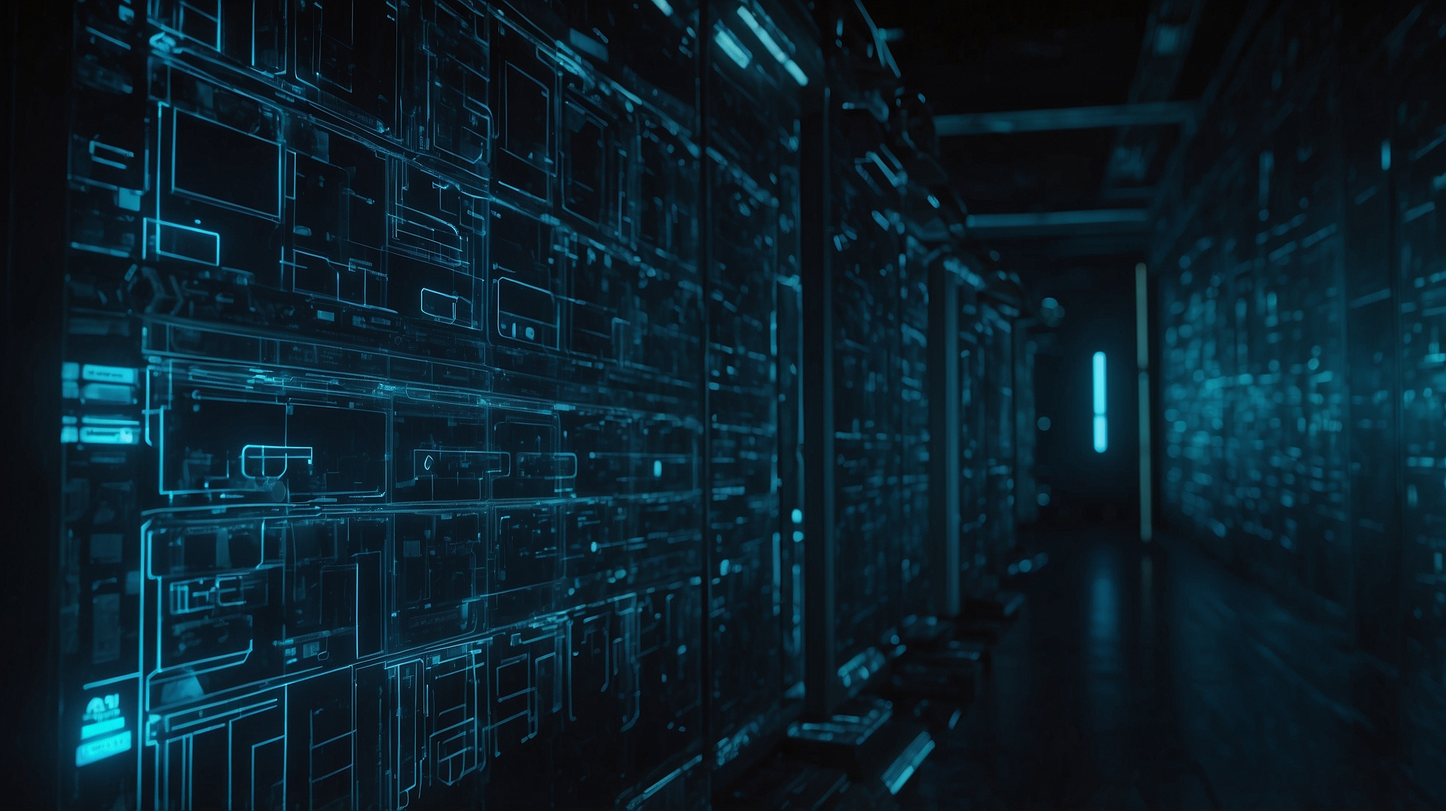
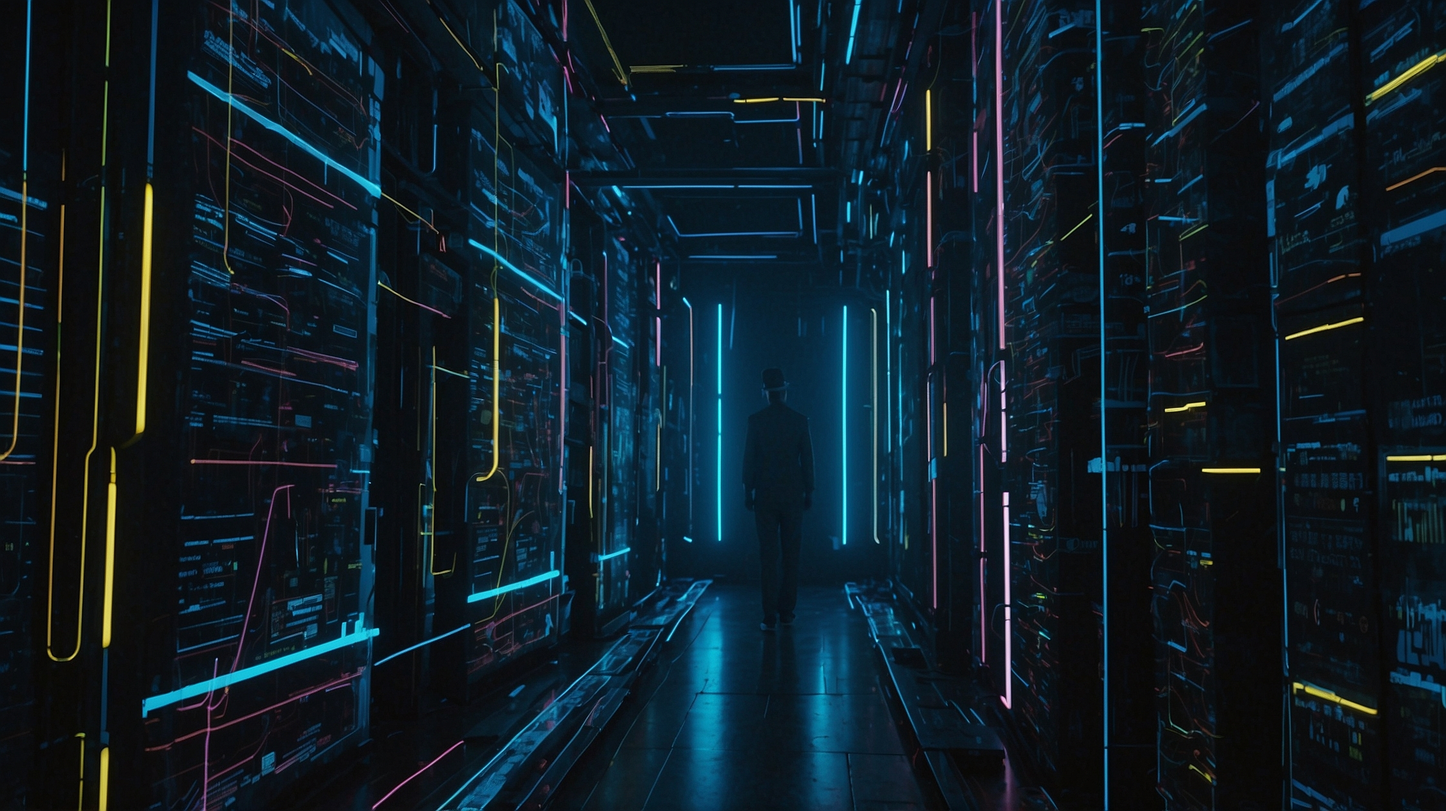
blog: deep cuts - profiles

diff --git a/src/content/blog/hermes-agent-deep-cuts-profiles.md b/src/content/blog/hermes-agent-deep-cuts-profiles.md
@@ -1,129 +1,133 @@
 ---
 title: "Hermes Agent Deep Cuts: Profiles"
-description: "Most users run one Hermes instance and never realize they can have independent work, security research, and personal profiles — each with its own config, skills, cron jobs, and memory. Here is how profiles work and why they change everything."
-pubDate: "Jul 09 2026"
+description: "Most users run one Hermes instance and call it done. But a single command gives you completely independent agents — separate configs, API keys, skills, memory, even gateway setups — all on the same machine. Here is how profiles work and why you probably need more than one."
+pubDate: "Jul 18 2026"
 heroImage: "/hermes-agent-deep-cuts-profiles.jpg"
 ---
 
-I am running Hermes Agent v0.18.0 (2026.7.1), and this post is the first in an ongoing **Deep Cuts** series — spotlighting one specific feature that most users walk past.
+I am running Hermes Agent v0.18.2, and this post is part of the ongoing **Deep Cuts** series — spotlighting one specific feature that most users walk past.
 
-Today's feature: **Profiles**.
+Today's topic is **profiles**: the ability to run multiple independent Hermes agents on the same machine, each with its own config, API keys, memory, sessions, skills, cron jobs, and gateway state.
 
 ## What Are Profiles?
 
-Hermes profiles are fully independent agent instances sharing the same binary. Each profile gets its own:
+A profile is a separate Hermes home directory. Where your default profile lives under `~/.hermes/`, a new profile called `work` lives under `~/.hermes/profiles/work/` and has its own:
 
-- **Config** — model provider, toolsets, terminal backend, compression settings
-- **Skills** — an isolated skill directory loaded only in that profile
-- **Sessions** — separate conversation history, never cross-contaminated
-- **Cron jobs** — scheduled tasks belong to the profile that created them
-- **Memory** — durable facts stay in their profile's namespace
-- **Plugins** — enabled per-profile, not globally
+- `config.yaml` — model, provider, terminal backend, security settings
+- `.env` — API keys and secrets
+- `SOUL.md` — personality/system prompt overrides
+- `skills/` — completely independent skill library
+- `sessions/` — conversation history (no cross-contamination)
+- `memories/` — durable cross-session facts
+- `cron/` — scheduled jobs
+- State database — isolated SQLite store
 
-You create a profile, switch to it with `--profile`, and Hermes treats it like a different installation. The config files live under `~/.hermes/profiles/<name>/` with the same layout as the default profile.
+When you create a profile, Hermes **automatically generates a wrapper command** for it. Create a profile called `coder` and you immediately have `coder chat`, `coder setup`, `coder gateway start` — as if you installed a separate Hermes binary. No aliases, no PATH hacking, no remembering `hermes --profile coder`.
 
 ```bash
-hermes profile create security-lab
-hermes --profile security-lab
+hermes profile create coder          # Creates profile + "coder" CLI alias
+coder setup                          # Configure API keys and model
+coder chat                           # Start chatting in the coder profile
 ```
-
-That is it. You now have a second Hermes that cannot see your work profile's sessions, does not have access to the same skills, and talks to a different model if you configure it that way.
 
 ## Why It Is Obscure
 
-Profiles are not hidden, but they are easy to miss. The default `hermes` command runs the "default" profile with zero indication that more exist. The `hermes profile list` subcommand is buried in a long CLI reference, and the profile system really shines when you combine it with other features — worktree mode (`-w`), per-profile cron jobs, and isolated skill directories — that most users discover one at a time.
+Profiles are not hidden — they have their own section in the docs — but three things conspire to keep them underused:
 
-The documentation covers profiles, but there is no runtime hint that shouts "you could be running three of these." Most people use one profile indefinitely, treating Hermes as a single agent rather than a multi-instance framework.
+1. **The one-and-done startup path.** Most users install Hermes, run through `hermes setup` once, configure a model, and start chatting. Nothing in the setup wizard asks "how many profiles do you want?" It assumes one.
+
+2. **The CLI auto-command is invisible until you create a profile.** You cannot discover `coder chat` exists without first running `hermes profile create coder`. The generated command appears with no announcement — it just works, silently, the next time you tab-complete.
+
+3. **No obvious use case on day one.** When you are evaluating an agent, you run it, test it, and decide whether to keep it. The need for multiple profiles emerges in week two or three, when your chat history is full of everything — personal queries, work repos, security research, random experiments — and you wish they were separate.
 
 ## How to Use Profiles
 
-### Create and Switch
+### Creating Profiles
 
 ```bash
-# List existing profiles
-hermes profile list
+# Blank profile — needs full setup
+hermes profile create mybot
 
-# Create from scratch
-hermes profile create redteam
+# Clone config from current profile (shared model/provider settings)
+hermes profile create work --clone
 
-# Clone your current profile as a starting point
-hermes profile create personal --clone
-
-# Switch for a single command
-hermes --profile redteam chat -q "Scan our infrastructure for exposed ports"
-
-# Set a profile as your default
-hermes profile use personal
+# Clone everything — config, skills, memory, sessions
+hermes profile create backup --clone-all
 ```
 
-### Per-Profile Configuration
-
-Each profile has its own `config.yaml` and `.env`. This means you can wire different providers, models, and tools to different profiles:
+### Managing Profiles
 
 ```bash
-# Work profile uses Claude for coding
-hermes --profile work config set model.default anthropic/claude-sonnet-4
-
-# Redteam profile uses a cheaper model for reconnaissance
-hermes --profile redteam config set model.default openrouter/deepseek/deepseek-v3
-
-# Personal profile uses a local model (no API cost)
-hermes --profile personal config set model.provider openai-compatible
-hermes --profile personal config set model.base_url http://localhost:1234/v1
+hermes profile list           # See all profiles
+hermes profile show work      # Inspect a profile's config
+hermes profile use work       # Set as default for `hermes` commands
+hermes profile describe work --text "Reads source code and writes findings"
+hermes profile alias work --name h-work    # Custom alias
 ```
 
-### Per-Profile Skills
-
-Skills installed in one profile do not pollute another. This is useful when you want security-research skills available in your redteam profile but not in your work profile, or when you are testing a new skill before promoting it:
+### Transferring Profiles Between Machines
 
 ```bash
-# Skills live under ~/.hermes/profiles/<name>/skills/
-hermes --profile redteam skills install cybersecurity-skill-bundle
-hermes --profile work skills list  # No security tools visible here
+# Export
+hermes profile export work -o work-backup.tar.gz
+
+# On another machine
+hermes profile import work-backup.tar.gz --name work
 ```
 
-### Per-Profile Cron Jobs
+### Knowing Where You Are
 
-Cron jobs are profile-scoped. Your work profile's daily standup briefing does not interfere with your personal profile's morning news scan. Each scheduler runs independently:
+When you are juggling multiple profiles, it is easy to forget which one is active. The current profile name shows in the TUI status bar:
+
+```
+[default] $ hermes
+```
+
+Or check explicitly:
 
 ```bash
-hermes --profile work cron list
-hermes --profile personal cron create "every morning 7am" "Summarize Hacker News top stories"
+hermes profile show
+> Active profile: work
 ```
 
-### Wrapper Scripts
+### Profile Descriptions for Kanban Orchestration
 
-For everyday use, `hermes profile alias` creates shell wrappers so you do not type `--profile` every time:
+If you use the kanban system for multi-agent coordination, profile descriptions tell the orchestrator what each profile is good at:
 
 ```bash
-hermes profile alias work hw
-hermes profile alias redteam hr
-
-# Now these work:
-hw chat -q "What is on my calendar today?"
-hr chat -q "Check if our CVEs have any new exploits"
+hermes profile create researcher --description "Reads source code and external docs, writes findings."
+hermes profile create coder --description "Implements features, writes tests, refactors code."
 ```
+
+The kanban dispatcher reads these descriptions when routing tasks.
 
 ## A Practical Scenario
 
-Here is a setup I run daily:
+You run a VPS serving a Telegram gateway. You want your personal assistant profile to have full shell access — `terminal`, `file` tools, the works. You also want a client-facing profile that runs on the same gateway but is locked down: no `terminal`, no `file write`, just `web_search`, `web_extract`, and a curated skill library.
 
-**Profile: `work`** — Claude Sonnet 4 via Anthropic, full toolset (web, file, terminal, browser, delegation), skills for code review and API design, cron jobs for daily standup prep and dependency audit. This is the profile I use for development and writing.
+With profiles, this takes three commands:
 
-**Profile: `redteam`** — DeepSeek V3 via OpenRouter (cheaper for bulk scanning), terminal-heavy toolset with browser disabled, skills for CVE research and vulnerability assessment, cron jobs for overnight attack-surface scans against isolated lab targets. This profile has no access to my work repos or sessions.
+```bash
+# Create the locked-down profile, cloning config
+hermes profile create client --clone
 
-**Profile: `personal`** — A local Llama model via Ollama (free, offline), limited to web search and note-taking skills, Telegram gateway only (no CLI). Used for personal research, reading summaries, and casual conversation.
+# Switch to it and configure gateway restrictions
+client setup
+client gateway start
+```
 
-Three independent agents. One binary. Zero cross-contamination.
+The client profile runs its own gateway with its own `.env` (separate Telegram bot token, no API keys with shell access) and its own `config.yaml` (telegram toolset stripped to read-only). The same VPS, same Hermes binary, but two completely independent agents with different security postures.
+
+Meanwhile, your `personal` profile continues running its own gateway on a different Telegram bot token, with full access. No config conflicts. No "did I give this bot the wrong API key?" anxiety.
 
 ## A Gotcha
 
-**Profile isolation is filesystem-deep, not process-level.** Profiles share the same Hermes binary, Python runtime, and process namespace. A runaway cron job in one profile can consume system resources that affect another profile's running session. If you run profile-based workloads on resource-constrained hardware (like my WSL partition with 8 GB RAM), plan your cron schedules to avoid overlapping heavy jobs across profiles.
+**Profile commands are not sticky across terminal sessions for interactive use.** If you run `hermes profile use work`, a plain `hermes` command will start the work profile. But `coder chat` (the auto-generated alias) always starts the coder profile, regardless of the sticky default. This is usually the behavior you want — explicit commands should be explicit — but it can surprise you if you type the wrong alias after setting a profile default.
 
-Also: `hermes profile delete` is destructive. It removes the entire profile directory including its sessions, skills, and cron definitions. There is no trash or undo — the curator safety net only covers skills in the default profile. Use `hermes profile show <name>` to review what a profile contains before deleting it.
+Also note that **cloned profiles inherit platform credentials.** If you clone your main profile and both profiles try to start gateways on the same Telegram bot token, only one will connect. Each profile needs its own set of platform tokens. The `--clone` flag copies the config but you should regenerate or swap `.env` values for gateway platforms.
 
 ## Closing
 
-Profiles transform Hermes from a single-agent tool into a multi-instance agent orchestrator. They let you compartmentalize by role, provider, and risk level without running multiple installations or Docker containers. If you run Hermes for more than one kind of work, you are leaving capability on the table by using a single profile.
+Profiles transform Hermes from a single-agent tool into a multi-agent platform. One binary, one install, many independent agents — work and personal, locked-down and full-access, research and production. The CLI auto-commands make switching between them feel like separate programs, not configuration gymnastics.
 
-Relevant docs: [Hermes Agent Profiles](https://hermes-agent.nousresearch.com/docs/user-guide/profiles)
+The profile commands reference lives at the [Hermes Agent profile docs](https://hermes-agent.nousresearch.com/docs/reference/profile-commands), and the longer profiles guide is at the [Profiles user guide](https://hermes-agent.nousresearch.com/docs/user-guide/profiles).
